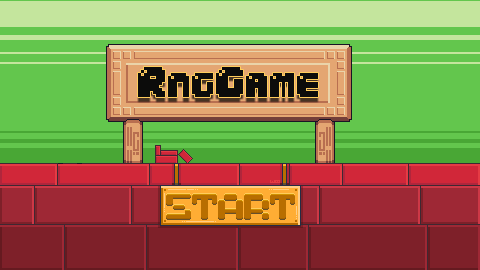
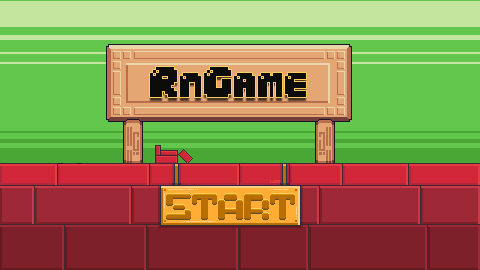
Fixed small bug with titlescreen, added more to menu and fixed visual titlescreen. Also fixed some formatting in rngame.

Changed region(s): [[0.2812, 0.237, 0.6875, 0.3852]]

diff --git a/core/src/com/mygdx/rngame/RNGame.java b/core/src/com/mygdx/rngame/RNGame.java
@@ -19,143 +19,162 @@ import java.util.ArrayList;
 
 
 public class RNGame extends ApplicationAdapter {
-	private double tiltTrigger = 0.65;
-	private Character character;
-	private SpriteBatch batch;
-	private Texture backImg;
-	private LevelCreator levelCreator;
-	private ArrayList<GameObject> gameObjects;
-	private Texture titleScreen;
-	private Music backMusic;
-	private GameState gameState = GameState.TITLE_SCREEN;
-	private Level1Map level1;
-	private boolean isOnGround;
+    private double tiltTrigger = 0.65;
+    private Character character;
+    private SpriteBatch batch;
+    private Texture backImg;
+    private LevelCreator levelCreator;
+    private ArrayList<GameObject> gameObjects;
+    private Texture titleScreen;
+    private Music backMusic;
+    private GameState gameState = GameState.TITLE_SCREEN;
+    private Level1Map level1;
+    private boolean isOnGround;
 
-	//Använde dessa till testing, händigare än logcat IMHO.
-	private BitmapFont highScoreFont;
-	private BitmapFont timeLeftFont;
-	String highScore = "Highscore is: ";
-	String timeLeft = "Time left: ";
-	int score = 0;
-	float time = 6;
+    //Använde dessa till testing, händigare än logcat IMHO.
+    private BitmapFont highScoreFont;
+    private BitmapFont timeLeftFont;
+    String highScore = "Highscore is: ";
+    String timeLeft = "Time left: ";
+    int score = 0;
+    float time = 6;
 
-	//Meny-test
-	private enum GameState{
-		TITLE_SCREEN
-	}
+    //Meny-test
+    private enum GameState {
+        TITLE_SCREEN,
+        LEVEL1_SCREEN,
+        LEVEL2_SCREEN,
+        LEVEL3_SCREEN,
+        GAMEOVER_SCREEN
+    }
 
 
-	@Override
-	public void create () {
-		batch = new SpriteBatch();
-		levelCreator= new LevelCreator();
-		levelCreator.generateObjects();
-		character = levelCreator.getCharacter();
-		gameObjects = levelCreator.generateObstacles(1);
-		titleScreen = new Texture("title screen.png");
-		backMusic = Gdx.audio.newMusic(Gdx.files.internal("the_field_of_dreams.mp3"));
+    @Override
+    public void create() {
+        batch = new SpriteBatch();
+        levelCreator = new LevelCreator();
+        levelCreator.generateObjects();
+        character = levelCreator.getCharacter();
+        gameObjects = levelCreator.generateObstacles(1);
+        titleScreen = new Texture("title screen.png");
+        backMusic = Gdx.audio.newMusic(Gdx.files.internal("the_field_of_dreams.mp3"));
 
-		//Generator för att läsa in en font till bitmapFont
-		FreeTypeFontGenerator generator = new FreeTypeFontGenerator(Gdx.files.internal("fonts/Roboto-Regular.ttf"));
-		FreeTypeFontGenerator.FreeTypeFontParameter parameter = new FreeTypeFontGenerator.FreeTypeFontParameter();
-		parameter.size = 41;
-		highScoreFont = generator.generateFont(parameter);
-		timeLeftFont = generator.generateFont(parameter);
-		generator.dispose();
+        //Generator för att läsa in en font till bitmapFont
+        FreeTypeFontGenerator generator = new FreeTypeFontGenerator(Gdx.files.internal("fonts/Roboto-Regular.ttf"));
+        FreeTypeFontGenerator.FreeTypeFontParameter parameter = new FreeTypeFontGenerator.FreeTypeFontParameter();
+        parameter.size = 41;
+        highScoreFont = generator.generateFont(parameter);
+        timeLeftFont = generator.generateFont(parameter);
+        generator.dispose();
 
-		highScoreFont.setColor(Color.FIREBRICK);
-		timeLeftFont.setColor(Color.FIREBRICK);
+        highScoreFont.setColor(Color.FIREBRICK);
+        timeLeftFont.setColor(Color.FIREBRICK);
 
-		level1 = new Level1Map();
-	}
+        level1 = new Level1Map();
+    }
 
-	@Override
-	public void render () {
-		/*if (gameState == GameState.TITLE_SCREEN) {
-			setTitleScreen();
-		}
-		Testkod ovanför för att få något meny-aktigt */
+    @Override
+    public void render() {
+        if (gameState == GameState.TITLE_SCREEN) {
+            setTitleScreen();
+        } else if (gameState == GameState.LEVEL1_SCREEN) {
 
-		if (time > 0){
-			time -= Gdx.graphics.getDeltaTime();
-		}
-		checkInput();
+		/*
+        Testkod ovanför för att få något meny-aktigt */
 
-		isOnGround = false;
-		for (MapObject object : level1.getMap().getLayers().get(2).getObjects().getByType(RectangleMapObject.class)){
-			Rectangle rectangle = ((RectangleMapObject) object).getRectangle();
-			if (character.collidesWith(rectangle)){
-				//Kollar från vilket håll karaktären kolliderar med ett block.
-				if (character.getY() >= ((rectangle.getY()+rectangle.getHeight())-40)){ //Uppifrån
-					if (!Gdx.input.isTouched()){
-						character.setY(rectangle.getY()+rectangle.getHeight()-15);
-						isOnGround = true;
-					}
-				} else if (((character.getX()+character.getWidth()+20) >= rectangle.getX())
-						&& (character.getX()+character.getWidth()-22) < (rectangle.getX()+rectangle.getWidth())){ //Karaktären kommer från höger
-					character.setX(rectangle.getX()-(character.getWidth()-20));
-				} else if ((character.getX()+40) >= (rectangle.getX()+rectangle.getWidth())){ //Karaktären kommer från vänster.
-					character.setX((rectangle.getX()+rectangle.getWidth())-22);
-				}
-			}
-		}
-		if (isOnGround){
-			character.setCurrentState(Character.JumpState.STATIONARY);
-			character.setSpeedY(0);
-		} else {
-			character.setCurrentState(Character.JumpState.DESCENDING);
-		}
+            if (time > 0) {
+                time -= Gdx.graphics.getDeltaTime();
+            }
+            checkInput();
 
-		character.updatePositionFromSpeed();
-		Gdx.gl.glClearColor(1, 0, 0, 1);
-		Gdx.gl.glClear(GL20.GL_COLOR_BUFFER_BIT);
+            isOnGround = false;
+            for (MapObject object : level1.getMap().getLayers().get(2).getObjects().getByType(RectangleMapObject.class)) {
+                Rectangle rectangle = ((RectangleMapObject) object).getRectangle();
+                if (character.collidesWith(rectangle)) {
+                    //Kollar från vilket håll karaktären kolliderar med ett block.
+                    if (character.getY() >= ((rectangle.getY() + rectangle.getHeight()) - 40)) { //Uppifrån
+                        if (!Gdx.input.isTouched()) {
+                            character.setY(rectangle.getY() + rectangle.getHeight() - 15);
+                            isOnGround = true;
+                        }
+                    } else if (((character.getX() + character.getWidth() + 20) >= rectangle.getX())
+                            && (character.getX() + character.getWidth() - 22) < (rectangle.getX() + rectangle.getWidth())) { //Karaktären kommer från höger
+                        character.setX(rectangle.getX() - (character.getWidth() - 20));
+                    } else if ((character.getX() + 40) >= (rectangle.getX() + rectangle.getWidth())) { //Karaktären kommer från vänster.
+                        character.setX((rectangle.getX() + rectangle.getWidth()) - 22);
+                    }
+                }
+            }
+            if (isOnGround) {
+                character.setCurrentState(Character.JumpState.STATIONARY);
+                character.setSpeedY(0);
+            } else {
+                character.setCurrentState(Character.JumpState.DESCENDING);
+            }
 
-		level1.render(Gdx.graphics.getDeltaTime());
-		batch.begin();
+            character.updatePositionFromSpeed();
+            Gdx.gl.glClearColor(1, 0, 0, 1);
+            Gdx.gl.glClear(GL20.GL_COLOR_BUFFER_BIT);
 
-		character.draw(batch);
-		for (GameObject object : gameObjects){
-			object.draw(batch);
-		}
+            level1.render(Gdx.graphics.getDeltaTime());
+            batch.begin();
+
+            character.draw(batch);
+            for (GameObject object : gameObjects) {
+                object.draw(batch);
+            }
 		highScoreFont.draw(batch, highScore + score, 5, Gdx.graphics.getHeight()-5);
 		timeLeftFont.draw(batch, timeLeft + String.format(java.util.Locale.US,"%.1f",time), Gdx.graphics.getWidth()-250, Gdx.graphics.getHeight()-5);
 
-		batch.end();
-	}
+            batch.end();
 
-	//titlescreen ska leda till själva spelet, tom tills vi har level att lägga in.
-	public void setTitleScreen() {
-		backMusic.play();
-		batch.begin();
-		batch.draw(titleScreen,0,0);
+        } else if (gameState == GameState.LEVEL2_SCREEN) {
 
-		if (Gdx.input.isTouched()) {
+        } else if (gameState == GameState.LEVEL3_SCREEN) {
 
-		}
+        } else if (gameState == GameState.GAMEOVER_SCREEN) {
 
-		batch.end();
-	}
+        }
+
+    }
+
+    //titlescreen ska leda till själva spelet, tom tills vi har level att lägga in.
+    public void setTitleScreen() {
+        backMusic.play();
+        //backMusic.setLooping(true);
+        batch.begin();
+        batch.draw(titleScreen, 0, 0, Gdx.graphics.getWidth(), Gdx.graphics.getHeight());
+
+        if (Gdx.input.isTouched()) {
+            backMusic.stop();
+            backMusic.play();
+            gameState = GameState.LEVEL1_SCREEN;
+        }
+
+        batch.end();
+    }
 
 
-	private void checkInput(){
+    private void checkInput() {
 
-		//highScore=String.valueOf(character.getCurrentState());
-		if (Gdx.input.justTouched()){
-			character.jump();
-		}
+        //highScore=String.valueOf(character.getCurrentState());
+        if (Gdx.input.justTouched()) {
+            character.jump();
+        }
 
-		//Kollar sensorn och avgör hastigheten i X-led därefter. tiltTrigger används som gränsvärde för att kunna stå stilla.
-		if (Gdx.input.getAccelerometerY() < -tiltTrigger || Gdx.input.getAccelerometerY() > tiltTrigger){
-				character.setSpeedX((float) ((Gdx.input.getAccelerometerY())*2.5));
-		} else {
-			character.setSpeedX(0);
-		}
-	}
+        //Kollar sensorn och avgör hastigheten i X-led därefter. tiltTrigger används som gränsvärde för att kunna stå stilla.
+        if (Gdx.input.getAccelerometerY() < -tiltTrigger || Gdx.input.getAccelerometerY() > tiltTrigger) {
+            character.setSpeedX((float) ((Gdx.input.getAccelerometerY()) * 2.5));
+        } else {
+            character.setSpeedX(0);
+        }
+    }
 
-	@Override
-	public void dispose () {
-		highScoreFont.dispose();
-		batch.dispose();
-		titleScreen.dispose();
-	}
+    @Override
+    public void dispose() {
+        highScoreFont.dispose();
+        batch.dispose();
+        titleScreen.dispose();
+        backMusic.dispose();
+    }
 }
